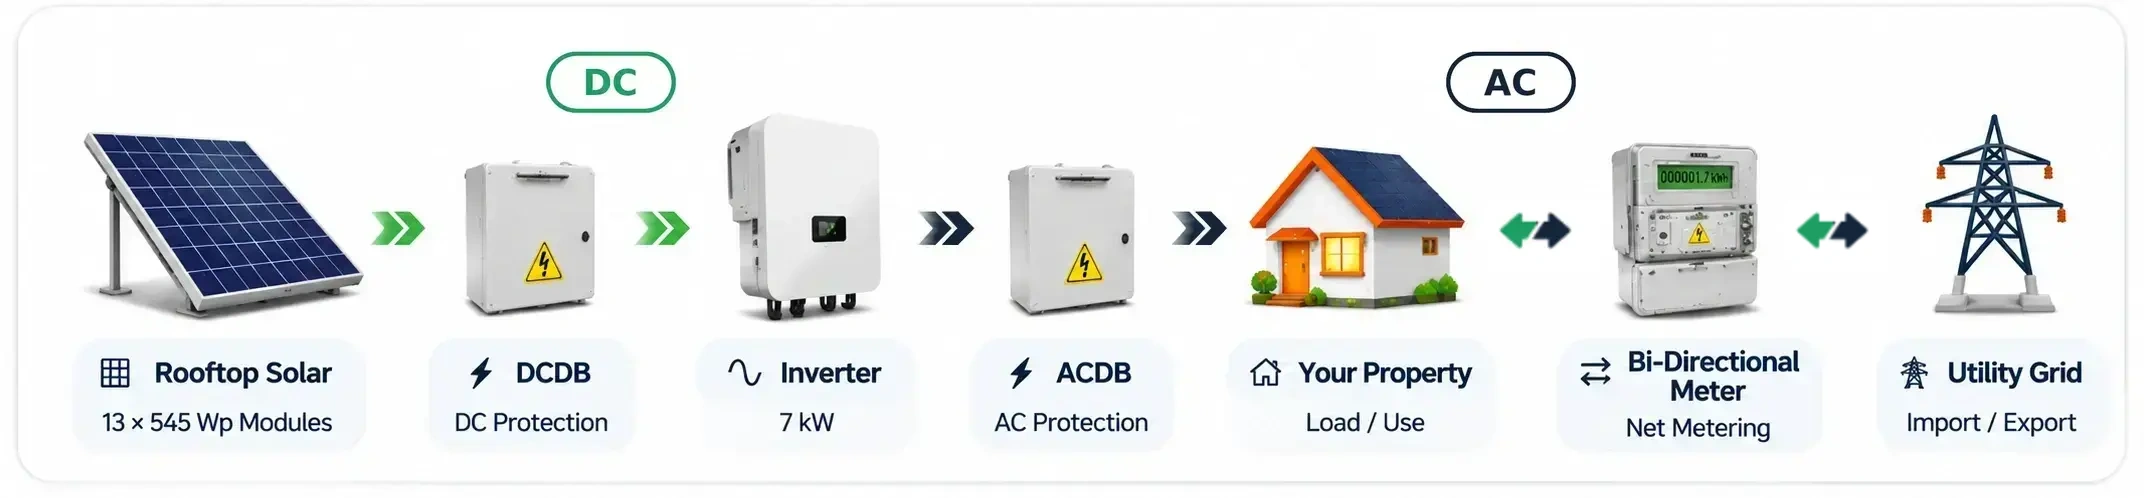
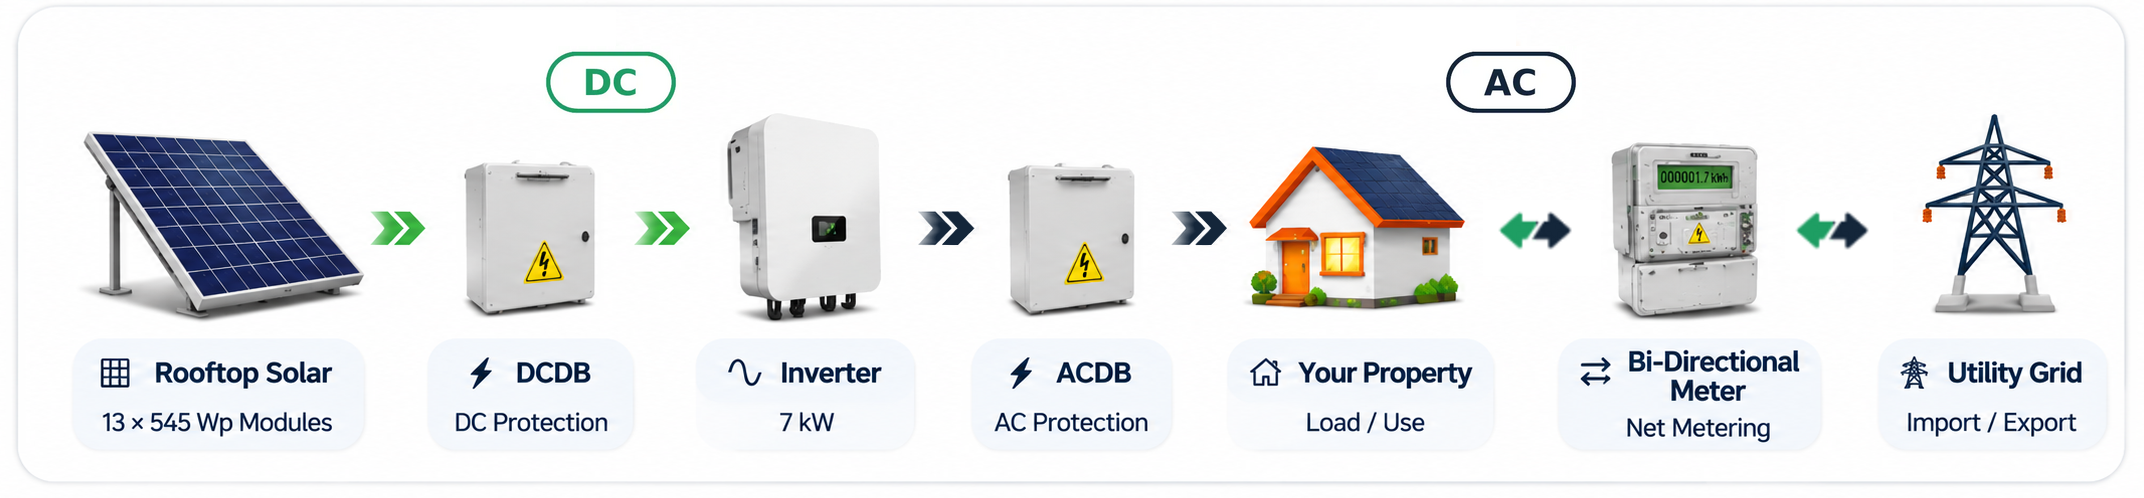
Page 5: stop re-encoding the overview - it is lossless now
He said the whole diagram was blurred, and he was right. The cause was not the
artwork or the page: it was this pipeline. Every round read the previous webp as
its base and wrote a new one at webp's default quality, so by the last change the
file had been through six lossy encodings. Small 8.5px labels do not survive that -
you can see the letters smeared in the old copy beside the new one.

The artwork is now built source PNG -> one encode, and that encode is lossless
(583KB, VP8L). Every intermediate step - the navy recolour, the badge composite,
the arrow composite - happens in PNG and only the last step writes webp, so no
detail is thrown away between steps.

Also: image-rendering:high-quality on the art, so the browser's own downscale from
2144px to the 718px column cannot soften it either.

qa/page56-marks.test.cjs: 41 checks, and the sharpness is now measured rather than
assumed - a band of the small type is scored for edge energy and has to match the
source (>= 8.5); the six-times-encoded copy scored 8.42. The test also asserts the
file is VP8L and still 2144x498. The old hand-rolled RIFF parser that reported 0x0
for VP8L is replaced with the decoder's own dimensions.

diff --git a/assets/css/proposal-v2.css b/assets/css/proposal-v2.css
@@ -117,7 +117,13 @@
 /* The owner's overview render carries its own rounded frame, so the box is just
    the width constraint: full bleed, no extra border or padding. */
 .pv2-solution .pv2-ov-box{margin-top:-1px;background:none;border:0;border-radius:0;box-shadow:none;padding:0;}
-.pv2-solution .pv2-ov-art{display:block;width:100%;height:auto;border-radius:12px;}
+/* The render is the owner's own raster at 2144px wide, drawn once into a 718px
+   column - so the browser is always downscaling it, never upscaling it. Every
+   re-encode on the way here softens it further: the file is now written once,
+   lossless, from a PNG pipeline, and this rule keeps the browser from applying its
+   own low-quality filter on top. */
+.pv2-solution .pv2-ov-art{display:block;width:100%;height:auto;border-radius:12px;
+  image-rendering:-webkit-optimize-contrast;image-rendering:high-quality;}
 .pv2 .pv2-flow{display:flex;align-items:flex-start;justify-content:space-between;}
 .pv2 .pv2-node{position:relative;flex:0 0 auto;width:66px;text-align:center;display:flex;flex-direction:column;align-items:center;}
 .pv2 .pv2-node.is-panel{width:98px;}.pv2 .pv2-node.is-house{width:76px;}
